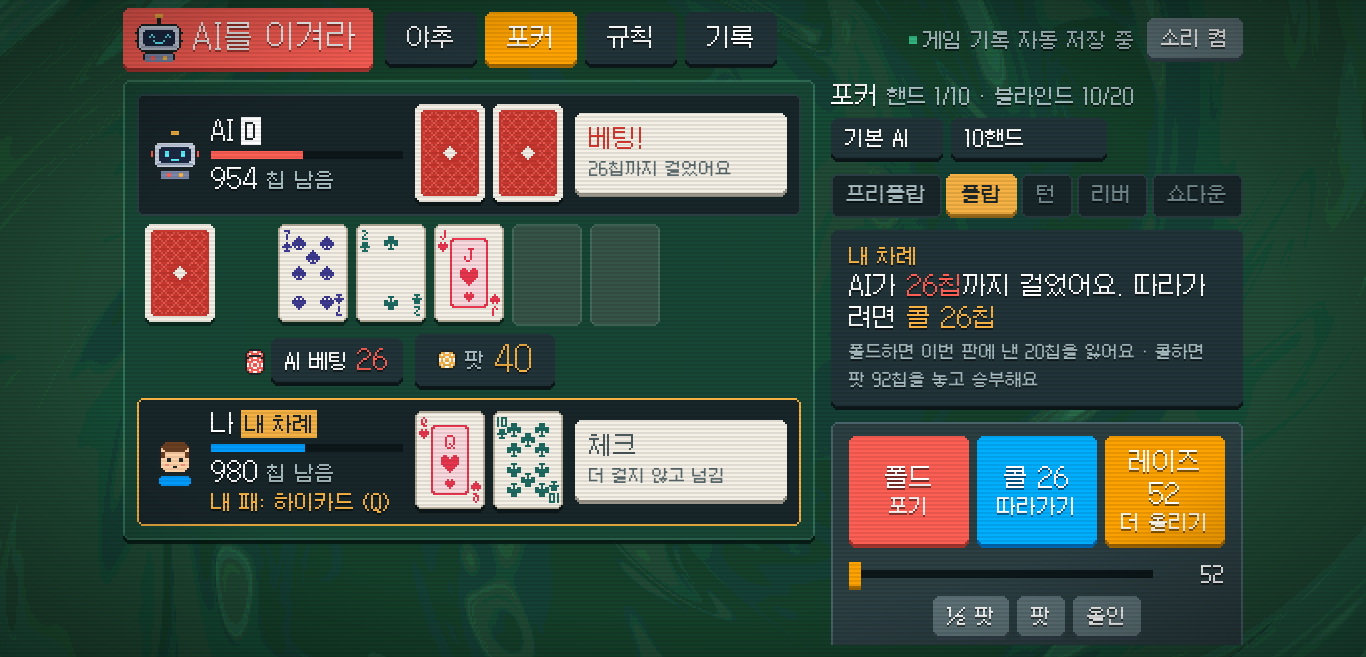
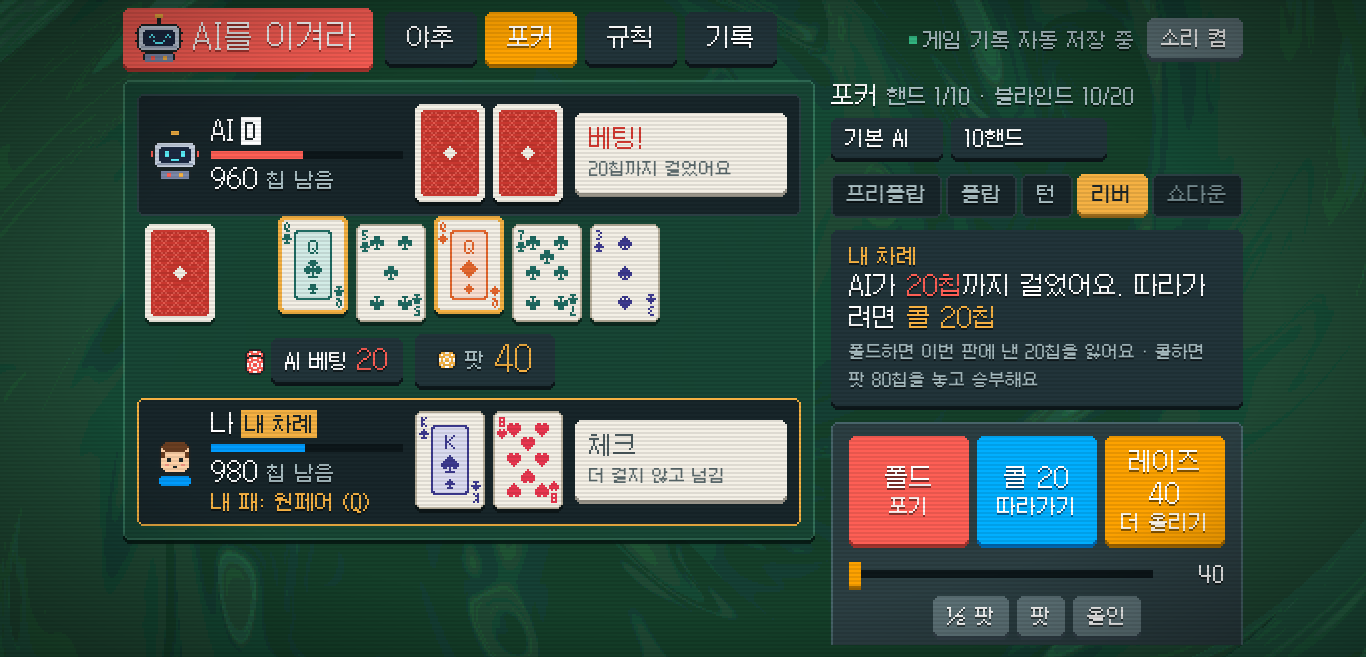
포커 올인: 리버 뜸 들이기(심장 소리+천천히 뒤집기), 아웃츠(역전 카드) 표시
Claude-Session: https://claude.ai/code/session_01EvcziecsRDToDij5YCKovu

diff --git a/js/poker.js b/js/poker.js
@@ -25,10 +25,18 @@ async function dealTo(el,c,face,delay){
   const d=$('deck').getBoundingClientRect(),r=el.getBoundingClientRect();
   await el.animate([{transform:`translate(${d.left-r.left}px,${d.top-r.top}px)`},{transform:'none'}],{duration:FX.reduce?1:300,easing:'cubic-bezier(.2,.8,.3,1)'}).finished;
 }
-async function flip(el,c){
-  if(FX.visible(el))await el.animate([{transform:'scaleX(1)'},{transform:'scaleX(0)'}],{duration:110,easing:'steps(4,end)'}).finished;
-  setCard(el,c,true);SFX.play('card');
-  if(FX.visible(el))await el.animate([{transform:'scaleX(0)'},{transform:'scaleX(1)'}],{duration:110,easing:'steps(4,end)'}).finished;
+async function flip(el,c,slow){
+  const D=slow?420:110,S=slow?8:4;
+  if(FX.visible(el))await el.animate([{transform:'scaleX(1)'},{transform:'scaleX(0)'}],{duration:D,easing:`steps(${S},end)`}).finished;
+  setCard(el,c,true);SFX.play(slow?'reveal':'card');
+  if(FX.visible(el))await el.animate([{transform:'scaleX(0)'},{transform:'scaleX(1)'}],{duration:D,easing:`steps(${S},end)`}).finished;
+}
+// 올인 리버: 뒷면으로 깔고 심장 소리를 점점 빠르게 낸 뒤 천천히 뒤집기
+async function suspense(el,c){
+  const t=tok;ui.suspense=true;render();
+  for(const gap of [650,520,400,300,240]){SFX.play('beat');FX.jolt(el);await wait(gap);if(t!==tok)return}
+  await flip(el,c,true);ui.suspense=false;
+  if(FX.visible(el)){const r=FX.centerOf(el);FX.burst(r.x,r.y,{n:18,colors:['#ffffff','#f5b143'],speed:3})}
 }
 // 올인 후 양쪽 패가 공개됐을 때 승률: 남은 카드가 2장 이하면 전부 세고, 더 많으면 무작위로 3000번 깔아 봄
 function runEq(vis){
@@ -40,6 +48,15 @@ function runEq(vis){
   else if(need===2){for(let i=0;i<deck.length;i++)for(let j=i+1;j<deck.length;j++)score([...vis,deck[i],deck[j]])}
   else for(let k=0;k<3000;k++){const d=deck.slice(),bd=vis.slice();for(let m=0;m<need;m++){const r=m+Math.floor(Math.random()*(d.length-m));[d[m],d[r]]=[d[r],d[m]];bd.push(d[m])}score(bd)}
   return [w[0]/n,w[1]/n];
+}
+// 아웃츠: 지고 있는 쪽이 다음 카드 한 장으로 앞서게 되는 카드 목록 (플랍 이후, 남은 카드가 있을 때만)
+function outsOf(vis,eq){
+  if(vis.length<3||vis.length>=5||Math.abs(eq[0]-eq[1])<1e-9)return null;
+  const trail=eq[0]<eq[1]?0:1,used=new Set([...h.hole[0],...h.hole[1],...vis]),cards=[];
+  for(let c=0;c<52;c++){if(used.has(c))continue;const bd=[...vis,c];
+    const a=PK.evalHand([...h.hole[trail],...bd]),b=PK.evalHand([...h.hole[1-trail],...bd]);if(a>b)cards.push(c)}
+  cards.sort((x,y)=>(y>>2)-(x>>2)||(x&3)-(y&3));
+  return {p:trail,cards,river:vis.length===4};
 }
 // 지금 가진 카드로 만든 족보와, 그 족보를 만드는 카드
 function bestInfo(cards){
@@ -84,7 +101,10 @@ const lastOpp=()=>{for(let i=h.log.length-1;i>=0;i--)if(h.log[i].p===1)return h.
 function guide(){
   const g=$('guide'),tag=t=>`<span class="gtag">${t}</span> `;
   if(ui.result){g.className='guide fr-dark '+ui.resClass;g.innerHTML=tag('결과')+ui.result;return}
-  if(ui.allin){g.className='guide fr-dark';g.innerHTML=tag('올인')+'<b>둘 다 올인! 카드를 공개하고 남은 카드를 돌려요</b><small>이름 아래 승률은 남은 카드가 어떻게 나올 수 있는지 다 따져 본 확률이에요</small>';return}
+  if(ui.allin){g.className='guide fr-dark';
+    const o=ui.outs,who=o&&(o.p?'AI':'나'),names=o&&o.cards.slice(0,14).map(c=>rl(c>>2)+SUITCH[c&3]).join(' ')+(o.cards.length>14?' …':'');
+    const outLine=!o?'':o.cards.length?`<small>${who}는 ${o.river?'리버에 이 카드가 나오면 역전':'다음 카드가 이 중 하나면 앞서요'} (${o.cards.length}장): <em>${names}</em></small>`:`<small>${who}는 다음 카드로 역전할 카드가 없어요</small>`;
+    g.innerHTML=tag('올인')+(ui.suspense?'<b>마지막 카드…!</b>':'<b>둘 다 올인! 카드를 공개하고 남은 카드를 돌려요</b>')+(outLine||'<small>이름 아래 승률은 남은 카드가 어떻게 나올 수 있는지 다 따져 본 확률이에요</small>');return}
   if(ui.thinking){g.className='guide fr-dark';g.innerHTML=tag('AI 차례')+'<b>AI가 고민 중이에요…</b><small>AI의 말풍선에 무엇을 했는지 나와요</small>';return}
   const myTurn=!ui.busy&&!h.done&&h.toAct===0;
   if(!myTurn){g.className='guide fr-dark';g.innerHTML=tag('진행 중')+'<b>카드를 나누는 중…</b>';return}
@@ -128,8 +148,8 @@ function render(){
   document.querySelectorAll('#p-streets li').forEach((li,i)=>li.className=i===ui.street?'on fr-gold':i<ui.street?'done fr-inset':'fr-inset');
   // 내 족보 + 그 카드 강조
   const vis=h.board.slice(0,ui.shownBoard),mi=bestInfo([...h.hole[0],...vis]);
-  if(ui.aiShown&&ui.eqAt!==ui.shownBoard){ui.eq=runEq(vis);ui.eqAt=ui.shownBoard}
-  const eqs=p=>ui.aiShown&&ui.eq?` · 승률 ${Math.round(ui.eq[p]*100)}%`:'';
+  if(ui.aiShown&&ui.eqAt!==ui.shownBoard){ui.eq=runEq(vis);ui.outs=outsOf(vis,ui.eq);ui.eqAt=ui.shownBoard}
+  const eqs=p=>ui.aiShown&&ui.eq?` · 승률 ${Math.round(ui.eq[p]*100)}%`+(ui.outs&&ui.outs.p===p?(ui.outs.cards.length?` · 역전 ${ui.outs.cards.length}장`:' · 역전 불가'):''):'';
   $('myHand').textContent=(ui.dealt?'내 패: '+mi.name+eqs(0):'');$('myHand').hidden=!ui.dealt;
   if(ui.aiShown){$('aiHand').textContent='AI 패: '+bestInfo([...h.hole[1],...vis]).name+eqs(1);$('aiHand').hidden=false}
   let use=ui.dealt?mi.use:[];
@@ -234,7 +254,7 @@ async function revealBoard(target){
   while(ui.shownBoard<target){
     const from=ui.shownBoard,k=from===0?3:1;
     ui.street=from===0?1:from===3?2:3;render();
-    await Promise.all([...Array(k)].map((_,j)=>(async()=>{const el=slots.board[from+j],c=h.board[from+j];await dealTo(el,c,false,j*150);await flip(el,c)})()));
+    await Promise.all([...Array(k)].map((_,j)=>(async()=>{const el=slots.board[from+j],c=h.board[from+j];await dealTo(el,c,false,j*150);if(ui.allin&&from+j===4&&!(ui.outs&&ui.outs.river&&!ui.outs.cards.length))await suspense(el,c);else await flip(el,c)})()));
     if(t!==tok)return;
     ui.shownBoard=from+k;render();
     if(ui.shownBoard<target)await wait(h.done?(ui.allin?1300:900):300);

diff --git a/js/sfx.js b/js/sfx.js
@@ -20,7 +20,8 @@ const SFX=(()=>{
     chip:()=>tone(1900,.035,{vol:.03,type:'triangle',to:2600}),card:()=>noise(.045,{vol:.06,hp:3200}),
     check:()=>{tone(300,.04,{vol:.08,type:'triangle'});tone(300,.04,{vol:.08,type:'triangle',at:.09})},
     fold:()=>tone(330,.2,{type:'triangle',to:170,vol:.08}),raise:()=>seq([440,660],.06),allin:()=>seq([330,440,554,660,880],.06,{vol:.07}),
-    turn:()=>tone(988,.08,{vol:.04}),win:()=>seq([523,659,784,1046,784,1046],.1),lose:()=>seq([392,330,262,196],.14,{type:'triangle',vol:.1}),
+    turn:()=>tone(988,.08,{vol:.04}),beat:()=>{tone(72,.1,{type:'triangle',vol:.24});tone(62,.1,{type:'triangle',vol:.2,at:.14})},
+    reveal:()=>{noise(.09,{vol:.1,hp:2400});seq([523,784],.07,{vol:.06})},win:()=>seq([523,659,784,1046,784,1046],.1),lose:()=>seq([392,330,262,196],.14,{type:'triangle',vol:.1}),
   };
   addEventListener('pointerdown',()=>{if(on)ctx()},{once:true});
   return {play:n=>{if(on&&S[n])try{S[n]()}catch(e){}},get on(){return on},toggle(){on=!on;try{localStorage.setItem('sfx',on?'on':'off')}catch(e){}return on}};
